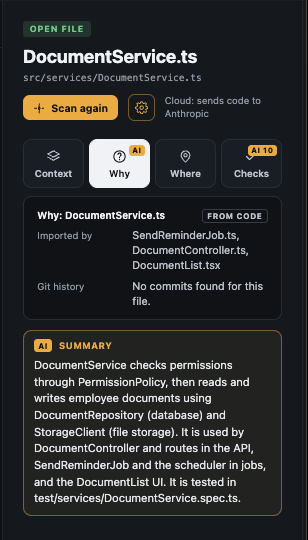
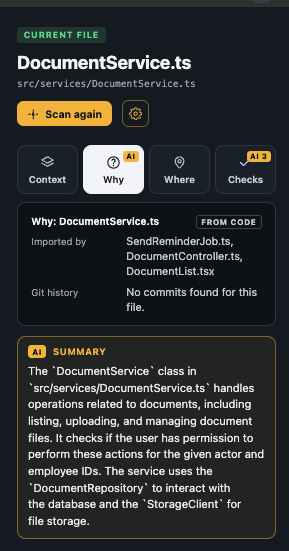
docs: update screenshots and description for the first release (#87)
The extension gained a members column, grouped cards, search,
keyboard navigation and side panel tabs since the old screenshots.

diff --git a/README.md b/README.md
@@ -2,7 +2,7 @@
 
 Shows where the open file sits in the codebase, in a panel beside the editor. The map's editor group is locked, so files you open from the explorer open in the other group.
 
-![The Wayfinder map beside DocumentService.ts: the files that import it, the files it imports, its test, a missing interface file, and the side panel with the file's exports and connections](media/map.png)
+![The Wayfinder map beside DocumentService.ts: three callers above, then the files it imports grouped by kind, its members and its test, and the side panel with the file's exports and connections](media/map.png)
 
 - **Imports this file:** files that import the open file.
 - **Imported by this file:** project files and packages the open file imports, grouped by kind: circular imports, dependencies, types, under test, packages.
@@ -10,6 +10,15 @@ Shows where the open file sits in the codebase, in a panel beside the editor. Th
 - **Tests:** test files that import the open file.
 - **Issues:** files the folder pattern expects but that are missing, and circular imports, listed in the side panel's Checks tab. A circular import also shows on the map as a red card under Imported by this file.
 - **Second layer:** one more step out in both directions.
+
+![The Imported by this file column with EmployeeService.ts as a red circular import card above the dependencies and types](media/circular-import.png)
+
+The side panel describes the open file in four tabs:
+
+- **Context:** exports, public methods, size, imports and connections.
+- **Why:** the files that import it and its git history.
+- **Where:** where it is defined and how it connects to other files.
+- **Checks:** missing files and circular imports.
 
 Cards sort A-Z within each group, and in Tests. Click a group heading to collapse or expand it. Each group, and the Tests column, shows 4 cards, then **Show N more**. Type in the search box of a column to show only the cards whose name contains the text, including cards in collapsed groups and past the first 4.
 
@@ -27,24 +36,22 @@ To use the map with the keyboard:
 - Enter selects a file card, moves the editor to a member's line, or collapses and expands a group. Cmd+Enter (Ctrl+Enter) opens the file.
 - `/` moves to the search box of the column you are in, or Members. Esc clears the search and moves back to the first card.
 
-![StorageClient.ts selected on the map, and the three lines in DocumentService.ts that use it highlighted](media/selected-card.png)
-
 Click **Second layer** to see one more step out: the files that import the callers, and the files the imports use.
 
-![The second layer: the immediate map in the middle, the callers' importers above it and the dependencies' imports below it](media/second-layer.png)
+![The second layer: the immediate layer shrunk in the middle, the files that import the callers above it and the files the imports use below it](media/second-layer.png)
 
 ## AI scan
 
 1. Install [Ollama](https://ollama.com) and pull a model, for example `ollama pull qwen2.5-coder:1.5b`.
 2. Run **Wayfinder: Choose AI model** and pick one of your installed models. The list ends with **Turn off AI** (when a model is set) and **Open Wayfinder settings**. The cog next to **Scan with AI** in the side panel opens Wayfinder settings. The choice is saved as `wayfinder.ai.model` in user settings. `wayfinder.ai.baseUrl` defaults to `http://localhost:11434`.
 
-   ![The model list: an installed Ollama model, then Claude Code and Codex under Cloud](media/model-picker.png)
+   ![Wayfinder settings: AI instructions, model, base URL and scope](media/settings.png)
 
 3. Hover **Scan with AI** to see which model the scan uses. Press **Scan with AI** to scan the open file. The summary appears under Why, the findings under Checks.
 
 <p>
-  <img src="media/ai-summary.png" width="300" alt="The Why tab: who imports the file, then an AI summary of what DocumentService does and who uses it">
-  <img src="media/ai-checks.png" width="300" alt="The Checks tab: a missing interface file from code, then AI findings with file and line, such as a missing error check after storage.put">
+  <img src="media/scanning.png" width="290" alt="The side panel while scanning, with the tooltip Scans with qwen2.5-coder:1.5b">
+  <img src="media/ai-summary.png" width="290" alt="The Why tab after a scan: who imports the file, then an AI summary of what DocumentService does">
 </p>
 
 ### Privacy
@@ -65,9 +72,7 @@ Findings that name a file or line outside the import map are dropped. Results ar
 ### Rules and scope
 
 - The scan sends the built-in rules, then the team rules in `.wayfinder/rules.md`, then your rules in `wayfinder.ai.instructions`. Team and user rules are added to the built-in rules. They do not replace them.
-- Run **Wayfinder: Create AI rules file** to write a starter `.wayfinder/rules.md` and open it. An existing file is opened, not overwritten.
-
-  ![A .wayfinder/rules.md file with three team rules about function, class and method length](media/rules-file.png)
+- Run **Wayfinder: Create AI rules file**, or click **Create or open the rules file** in settings, to write a starter `.wayfinder/rules.md` and open it. An existing file is opened, not overwritten.
 
 - Team and user rules together are cut at 2,000 characters to fit the model. The side panel then shows "Rules were cut to fit the model".
 - `wayfinder.ai.scope`: `file` (default) sends only the open file. `neighbours` also sends the code of its direct imports, tests and callers, cut to fit. Neighbours are cut before the open file.

diff --git a/CHANGELOG.md b/CHANGELOG.md
@@ -2,8 +2,9 @@
 
 ## 0.1.0
 
-- Map of the open file in a panel beside the editor: files that import it, files and packages it imports, its tests, and a second layer one step further out.
-- Checks from the code: files the folder pattern expects but that are missing, and circular imports.
+- Map of the open file in a panel beside the editor: files that import it, files and packages it imports, its members, its tests, and a second layer one step further out.
+- Cards grouped by kind, a search box in each column, and keyboard navigation. The member at the editor cursor is highlighted.
+- Checks from the code: files the folder pattern expects but that are missing, and circular imports, listed in the side panel's Checks tab.
 - Scan with AI: a summary and things worth checking for the open file, from a local Ollama model.
 - Cloud scan through the Claude Code or Codex CLI, with a prompt before the first scan in a workspace.
 - Team rules in `.wayfinder/rules.md`, your own rules in `wayfinder.ai.instructions`, and `wayfinder.ai.scope` to also send direct imports, callers and tests.
